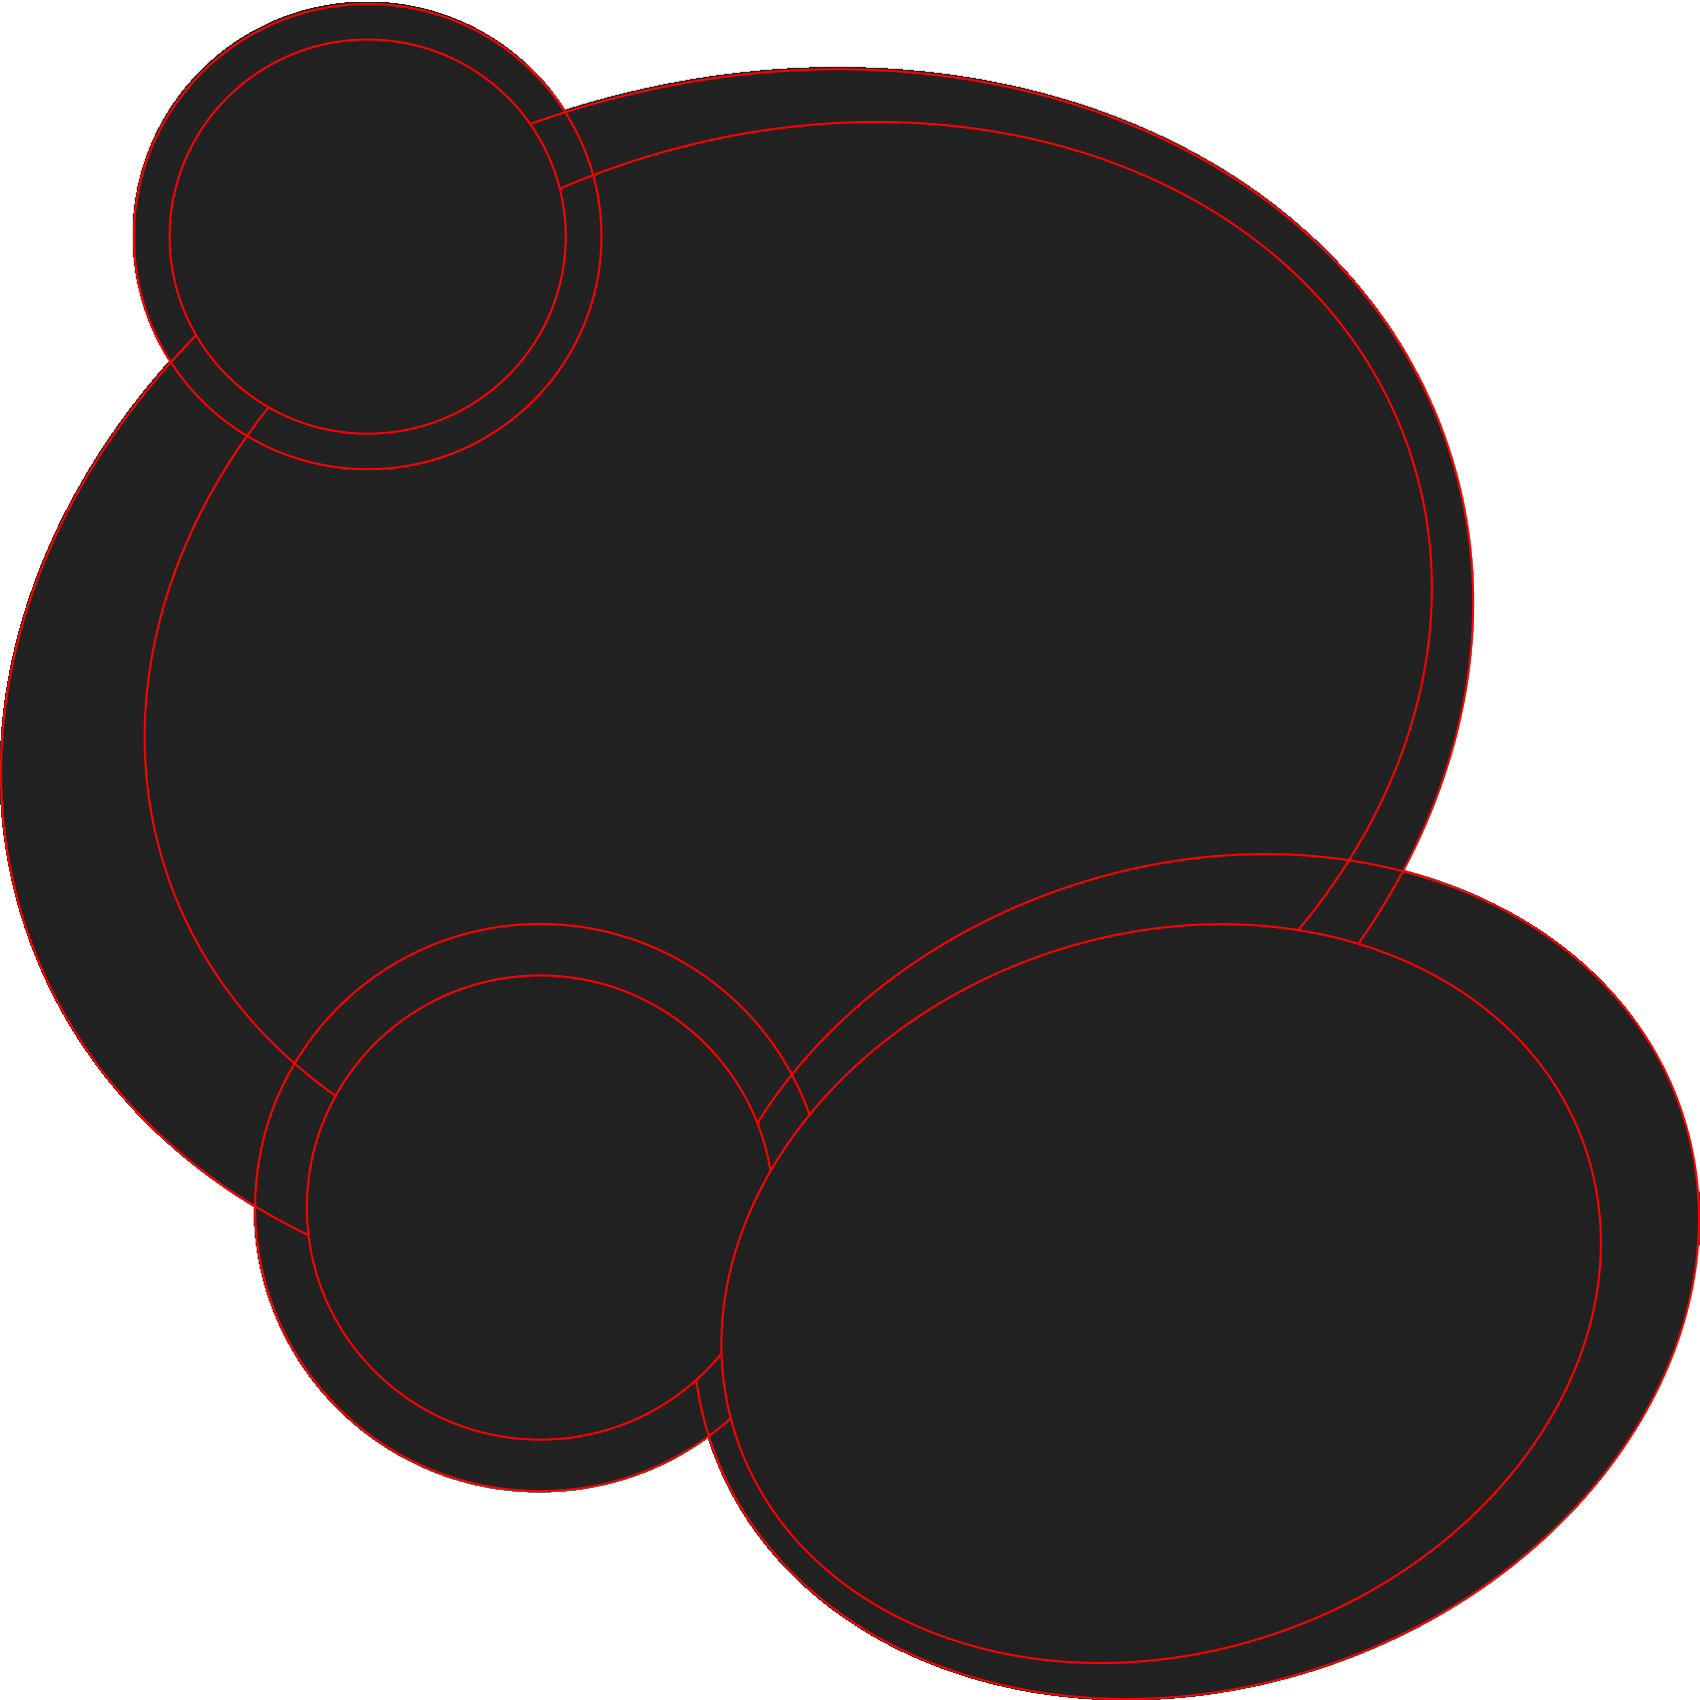
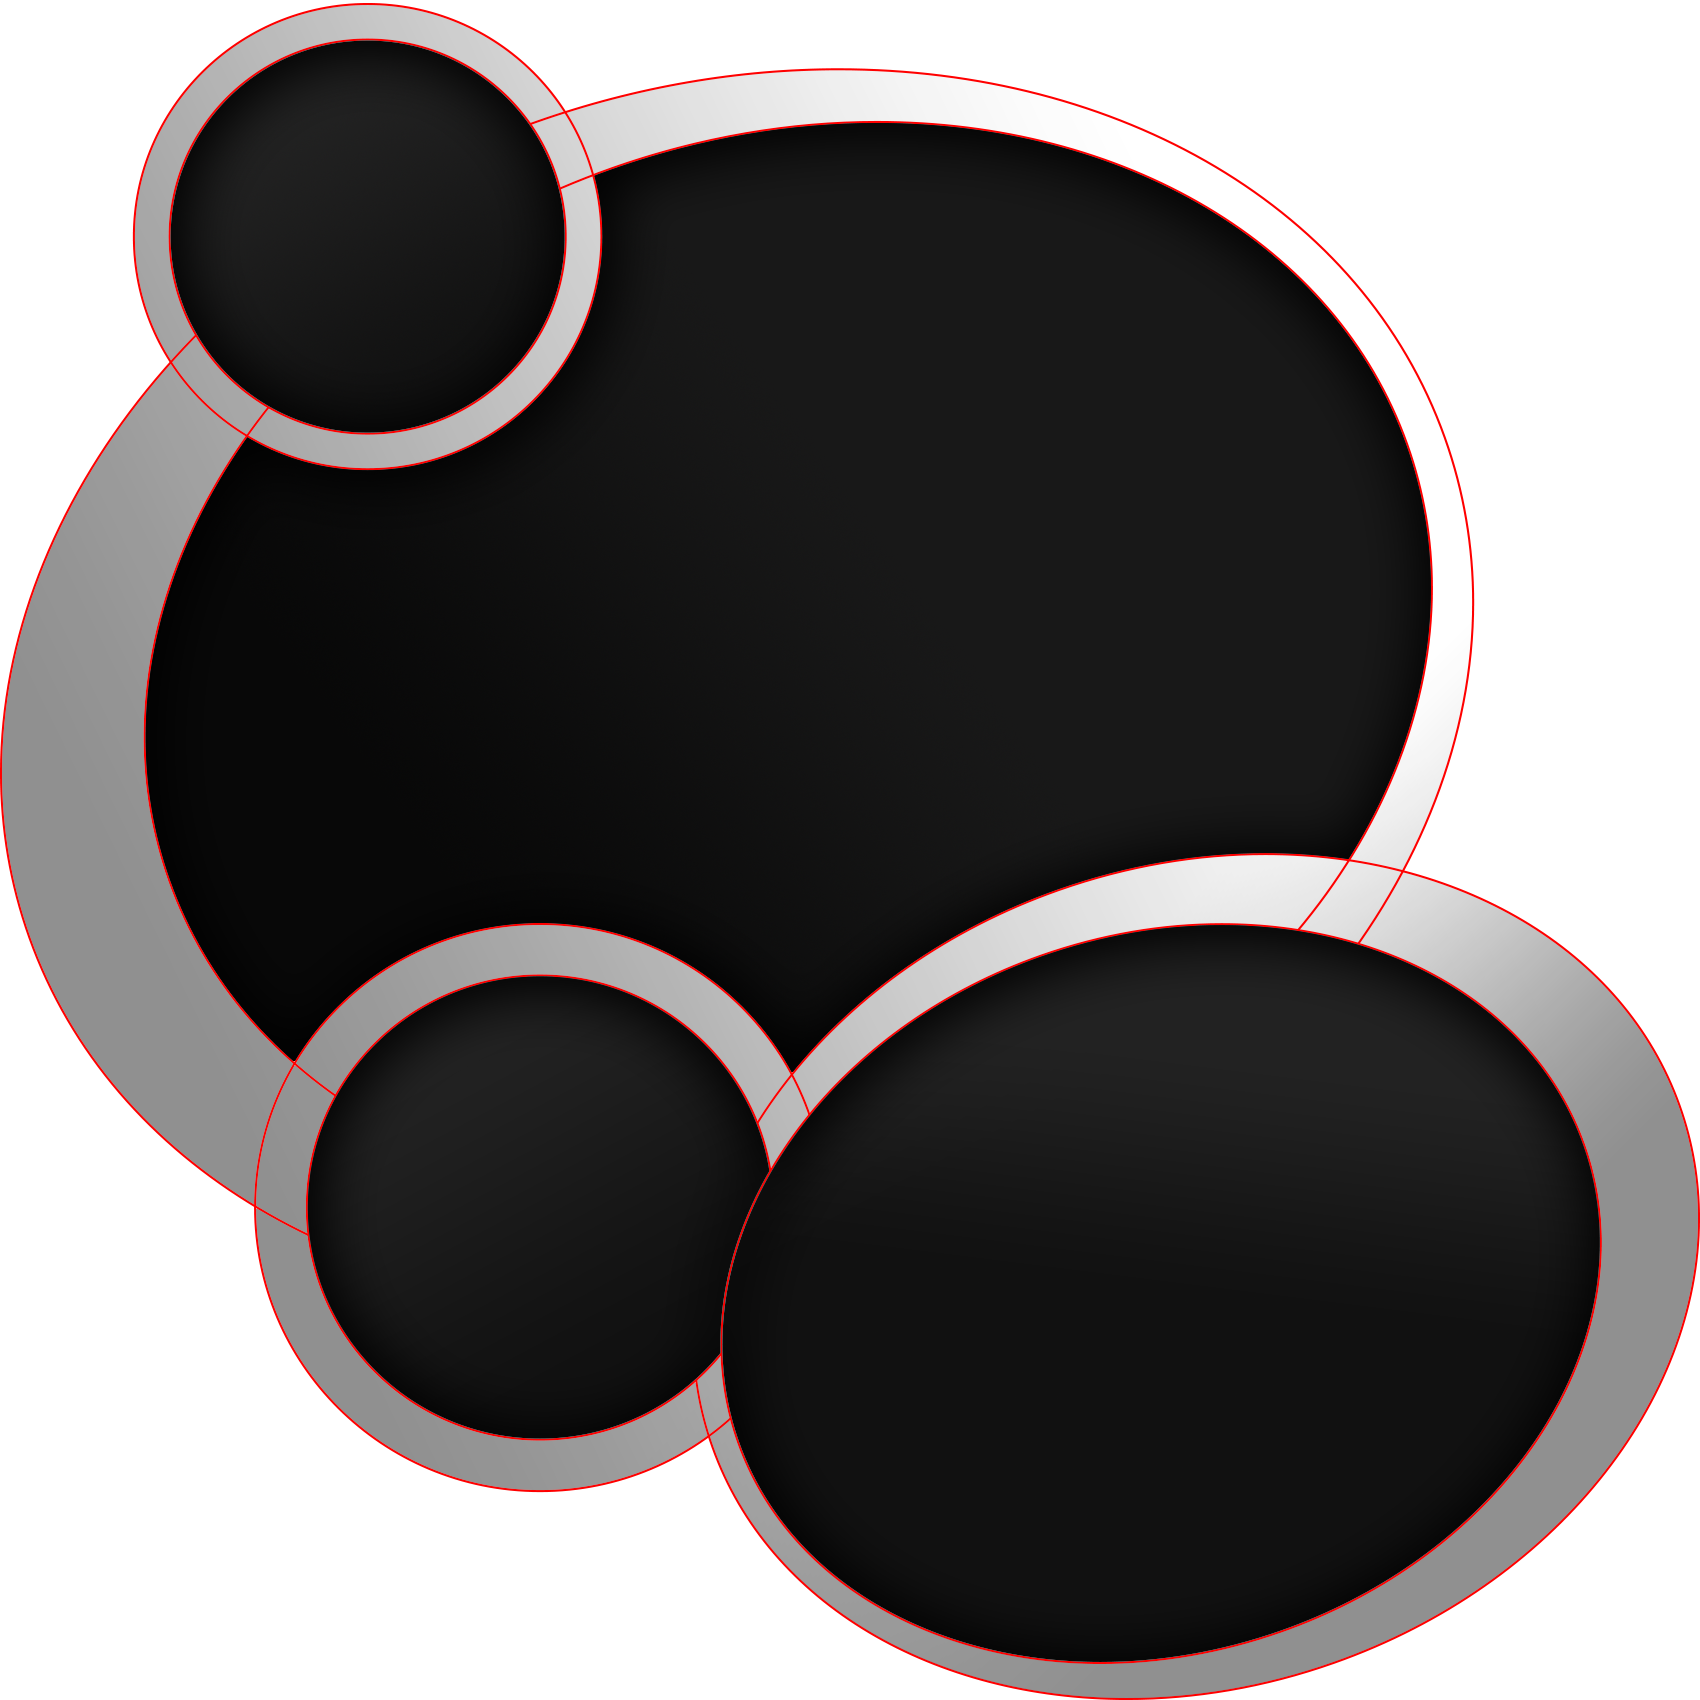
ui refinements

Changed region(s): [[0.0, 0.0, 1.0, 1.0]]

diff --git a/style.css b/style.css
@@ -35,7 +35,7 @@
 }
 
 body {
-  background-color: #222;
+  background-color: #000;
   margin: 0;
   font-size: 10px;
   text-align: center;
@@ -56,14 +56,14 @@ body, html {
   width: 540px;
   height: 240px;
   position: absolute;
-  top: 20px;
+  top: 35px;
   left: 45%;
   margin-left: -250px;
 }
 
 .timer {
   position: absolute;
-  top: 300px;
+  top: 350px;
   left: 50%;
   margin-left: -350px;
   width: 600px;
@@ -104,17 +104,9 @@ body, html {
 
 /*
 ------------------------------------------------
-PLAYER 1 GAUGE STYLES
+GAUGE POSITIONING + SIZING
 ------------------------------------------------
 */
-
-#p1position, #p2position {
-  top: 0.85em;
-  left: 1.25em;
-  width: 2.08em;
-  background-color: #666;
-  font-size: 80px;
-}
 
 #p1speed, #p2speed {
   top: 15em;
@@ -159,63 +151,48 @@ PLAYER 1 GAUGE STYLES
 }
 
 
+.pLap {
+  position: absolute;
+  top: 10.9em;
+  left: 3.2em;
+  width: 4em;
+  text-align: center;
+  font-size: 50px;
+  font-family: 'ethnocentricitalic';
 
-
-/*
-------------------------------------------------
-PLAYER 2 GAUGE STYLES
-------------------------------------------------
-
-
-#p2speed {
-  top: 400px;
-  left: 100px;
-  width: 29em;
-  font-size: 20px;
+  color: white;
+  z-index: 1000;
 }
 
-#p2rpm {
-  top: 800px;
-  left: 100px;
-  width: 29em;
-  font-size: 15px;
-}
-  .pRPM .value:after {
-    content: 'x1000';
+  .pLap div {
+    display: inline-block;
+  }
+
+  .pLap .currentLap {
+    font-size: 1.8em;
+  }
+
+  .pLap .totalLaps {
+    font-size: 1em;
+    position: relative;
+    margin-left: 0.2em;
+  }
+
+  .pLap .totalLaps:before {
+    content: '/';
+    font-family: 'ethnocentric';
+  }
+
+  .pLap .totalLaps:after {
+    content: 'lap';
     position: absolute;
-    bottom: -2.5em;
-    right: -2.5em;
-    font-size: 0.25em;
-    margin-left: 1em;
-    text-shadow: none;
+    top: -0.6em;
+    left: 1em;
+    letter-spacing: 0.1em;
+    font-size: 0.36em;
   }
 
 
-#p2thrust {
-  top: 500px;
-  left: 100px;
-  font-size: 20px;
-}
-
-#p2fuel {
-  top: 600px;
-  left: 100px;
-  font-size: 15px;
-}
-
-
-#p2gear {
-  top: 900px;
-  left: 100px;
-  font-size: 20px;
-}
-
-#p2position {
-  top: 0;
-  left: 30rem;
-}
-
-*/
 
 /*
 ------------------------------------------------
@@ -249,27 +226,33 @@ SHARED GAUGE STYLES
   right: 1.7em;
 }
 
-#player1 .value { text-shadow: 0.03em 0.03em 0 #000, 0.06em 0.06em 0 #f00; }
-#player2 .value { text-shadow: 0.03em 0.03em 0 #000, 0.06em 0.06em 0 #4498ff; }
+#player1 .value, #player1 .currentLap, #player1 .position  { text-shadow: 0.03em 0.03em 0 #000, 0.06em 0.06em 0 #f00; }
+#player2 .value, #player2 .currentLap, #player2 .position  { text-shadow: 0.03em 0.03em 0 #000, 0.06em 0.06em 0 #4498ff; }
 
 .pPosition {
+  top: 0.85em;
+  left: 1.25em;
+  width: 2.08em;
+  font-size: 8em;
   position: absolute;
   font-family: 'ethnocentricitalic';
-  font-size: 10em;
   color: white;
   z-index: 10;
 }
 
+  .pPosition div {
+    display: inline-block;
+  }
+
 .position {
-  position: absolute;
   right: 1.2em;
 }
 
 .posLabel {
-  position: absolute;
-  top: 0.55em;
-  right: 0.4em;
   font-size: 0.5em;
+  margin-left: 0.3em;
+  vertical-align: super;
+  position: relative;
 }
 
 .posLabel:after {
@@ -279,6 +262,9 @@ SHARED GAUGE STYLES
   left: 0;
   bottom: -0.6em;
 }
+
+
+
 
 
 /*
@@ -305,9 +291,9 @@ RADIAL GAUGE
       /*-webkit-perspective: 100px;*/
     }
 
-      .radial .gauge .bar .fill {
-        background-color: #666;
-      }
+    .radial .gauge .bar .fill {
+      box-shadow: 0.12em 0.1em 0 0 #000;
+    }
 
 
 /*
@@ -328,12 +314,10 @@ LINEAR GAUGE
     }
 
       .linear .gauge .bar .fill {
-        background-color: #666;
         width: 100%;
         height: 100%;
+        box-shadow: 0.2em 0.2em 0 0 #000;
       }
-
-
 
 /*
 ------------------------------------------------
@@ -355,12 +339,14 @@ GEAR GAUGE
       .gear .gauge .bar .fill {
         display: table-cell;
         vertical-align: middle;
-        background-color: #666;
+
+        box-shadow: 0.2em 0.2em 0 0 #000;
+
         width: 100%;
         height: 100%;
         font-family: 'ethnocentricregular';
         font-size: 1.5em;
         padding-top: 0.1em;
-        color: #222;
+        color: #080808;
         text-align: center;
       }

diff --git a/main.js b/main.js
@@ -30,7 +30,7 @@ function toggleFullScreen() {
 }
 
 
-var inactiveColor = '#666';
+var inactiveColor = '#444';
 
 var colors = [
   {
@@ -179,7 +179,8 @@ function drawRadialGauge(stats) {
     });
 
     $gauge.find('.bar .fill').eq(i-1).css({
-      'height' : fillHeight+'em'
+      'height' : fillHeight+'em',
+      'backgroundColor' : inactiveColor
     });
 
   };
@@ -207,7 +208,8 @@ function drawLinearGauge(stats) {
     $gauge.find('.bar').eq(i-1).css({
       'height' : barHeight+'em',
       'width' : barWidth+'em',
-      'left' : barSpacing*i-barSpacing+'em' //subtract one width from start
+      'left' : barSpacing*i-barSpacing+'em', //subtract one width from start
+      'backgroundColor' : inactiveColor
     });
 
   };
@@ -243,7 +245,8 @@ function drawGearGauge(stats) {
     $gauge.find('.bar').eq(i-1).css({
       'height' : barHeight+'em',
       'width' : barWidth+'em',
-      'left' : barSpacing*i-barSpacing+'em' //subtract one width from start
+      'left' : barSpacing*i-barSpacing+'em', //subtract one width from start
+      'backgroundColor' : inactiveColor
     });
 
   };
@@ -329,6 +332,15 @@ function updatePosition(player, value) {
   else {
     $el.children('.posLabel').text('nd');
   }
+
+}
+
+function updateLap(player, value) {
+
+  var $el = $('.pLap').eq(player);
+
+  $el.children('.currentLap').text(value);
+
 
 }
 

diff --git a/index.html b/index.html
@@ -48,8 +48,11 @@
       </div>
 
       <div id="p1position" class="pPosition">
-        <div class="position">1</div>
-        <div class="posLabel">st</div>
+        <div class="position">1</div><div class="posLabel">st</div>
+      </div>
+
+      <div class="pLap">
+        <div class="currentLap">1</div><div class="totalLaps">2</div>
       </div>
 
     </div>
@@ -85,8 +88,11 @@
       </div>
 
       <div id="p2position" class="pPosition">
-        <div class="position">2</div>
-        <div class="posLabel">nd</div>
+        <div class="position">2</div><div class="posLabel">nd</div>
+      </div>
+
+      <div class="pLap">
+        <div class="currentLap">1</div><div class="totalLaps">2</div>
       </div>
 
     </div>
